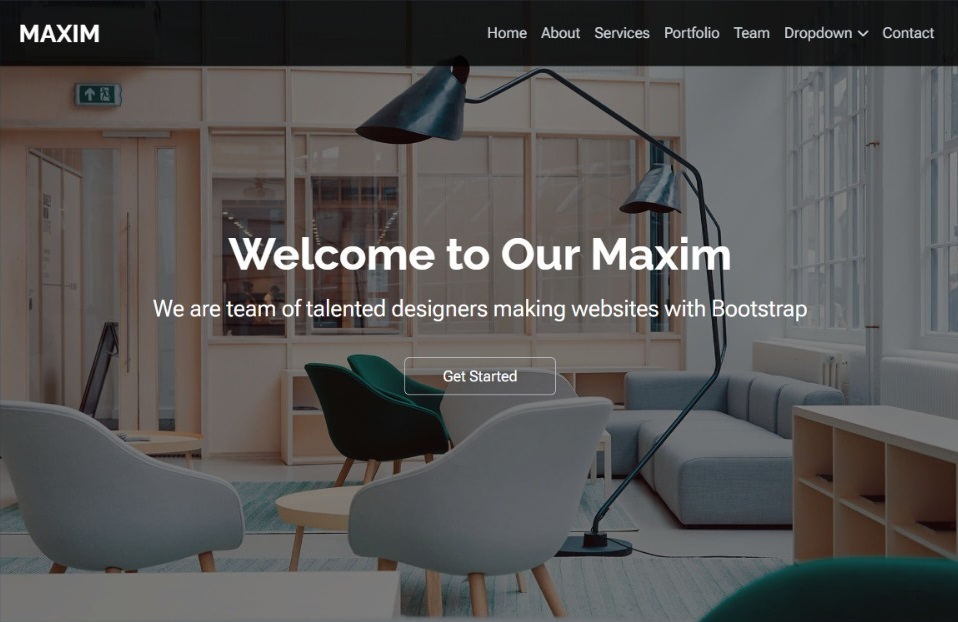
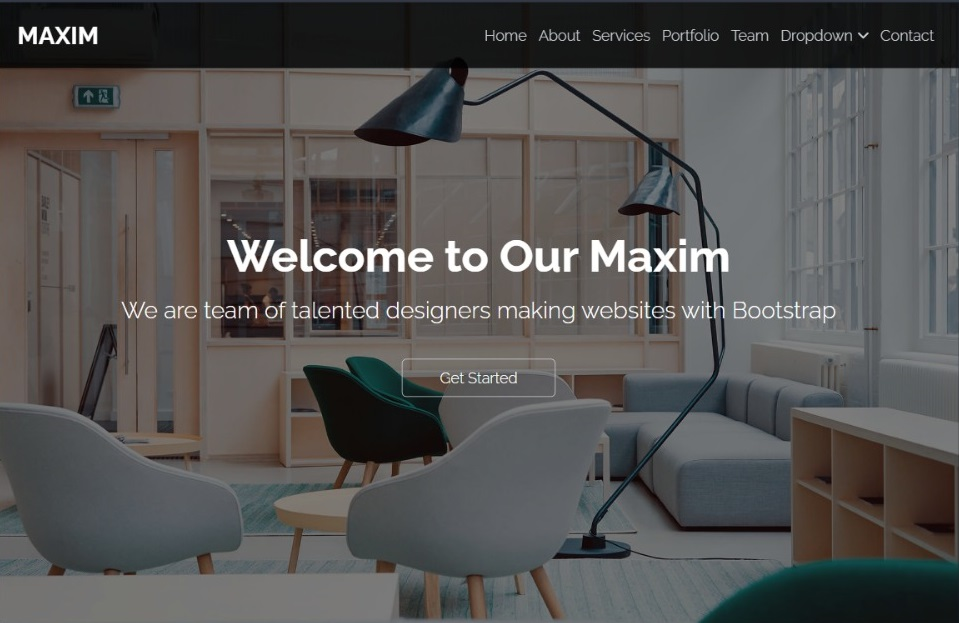
updated

diff --git a/src/pages/Projects.jsx b/src/pages/Projects.jsx
@@ -1,5 +1,7 @@
 import ProjectCard from "../components/CompProject";
 import TitleSect from "../components/Title";
+import maxim from "../assets/images/maxim.jpg";
+import dashboard from "../assets/images/dashboard.jpg";
 
 export default function SectionProjects(){
     return(
@@ -7,8 +9,17 @@ export default function SectionProjects(){
             <TitleSect title={"My Projects"}/>
             <div className="grid grid-cols-3 gap-12 max-xl:gap-8 max-lg:grid-cols-2 max-sm:grid-cols-1">
                 <ProjectCard
+                    image={dashboard}
+                    projectTitle={"Medical Analysis"}
+                    description={"A modern and responsive medical analysis management dashboard built using React, Vite, Tailwind CSS and Shadcn-UI. providing an elegant interface for administrative tasks."}
+                    tools={["React", "React Router", "Tailwind CSS", "Shadcn-UI"]}
+                    live={"https://muhammad-221.github.io/Medical-Analysis/"}
+                    github={"https://github.com/Muhammad-221/Medical-Analysis"}
+                />
+                <ProjectCard
+                    image={maxim}
                     projectTitle={"Maxim"}
-                    description={"This is a description of Project 1."}
+                    description={"I designed and developed a professional website interface for a virtual company, a landing page that aims to showcase services, past work, and the team with a modern and responsive design."}
                     tools={["React", "Sass", "Bootstrap", "React Router"]}
                     live={"https://muhammad-221.github.io/maxim/"}
                     github={"https://github.com/muhammad-221/maxim"}

diff --git a/src/components/CompProject.jsx b/src/components/CompProject.jsx
@@ -2,16 +2,16 @@ import image from "../assets/images/maxim.jpg";
 import { FaEye } from "react-icons/fa";
 import { FaGithub } from "react-icons/fa6";
 
-export default function ProjectCard({projectTitle, description, tools, live, github}) {
+export default function ProjectCard({image, projectTitle, description, tools, live, github}) {
   return (
-    <div className="w-full min-h-100 border border-blue-600/20 overflow-hidden rounded-xl shadow-md hover:shadow-2xl transform hover:-translate-y-2 dark:bg-slate-800 transition duration-300">
+    <div className="w-full min-h-100 border border-blue-600/20 overflow-hidden rounded-2xl shadow-md hover:shadow-lg transform hover:-translate-y-2 dark:bg-slate-800 transition duration-300">
       <div className="w-full">
-        <img src={image} alt="maxim" className="w-full"/>
+        <img src={image} loading="lazy" alt="project" className="w-full"/>
       </div>
       <div className="p-5 max-lg:p-3">
         <div>
-          <h3 className="text-2xl font-semibold text-indigo-500">{projectTitle}</h3>
-          <p className="text-gray-600 dark:text-gray-300">{description}</p>
+          <h3 className="text-xl font-semibold text-indigo-500 mb-2">{projectTitle}</h3>
+          <p className="text-gray-600 text-sm font-normal dark:text-gray-300">{description}</p>
         </div>
         <div className="flex flex-wrap gap-2 mt-3">
           {tools?.map((tool) => (

diff --git a/src/layouts/Links.jsx b/src/layouts/Links.jsx
@@ -29,9 +29,11 @@ export default function NavLinks(){
         {to: "education", label: "Education", icon: <FaGraduationCap className="mr-1"/>},
         {to: "contact", label: "Contact", icon: <IoMdMail className="mr-1"/>}
     ];
+    
     const style = "text-xl font-semibold text-gray-800 hover:text-indigo-600 inline-flex items-center cursor-pointer transition duration-600 max-lg:text-base dark:text-gray-300 dark:hover:text-indigo-500"
+    
     return(
-        <>
+        <header className="w-full h-15 fixed z-50 px-5 flex items-center border-b border-gray-200 bg-white/80 backdrop-blur-lg dark:border-slate-700 dark:bg-slate-900/80">
             <div className="max-md:hidden">
                 <h1 className="text-4xl font-extrabold bg-linear-to-r from-indigo-400 via-purple-400 to-pink-500 bg-clip-text text-transparent max-lg:text-2xl">M & A</h1>
             </div>
@@ -70,7 +72,6 @@ export default function NavLinks(){
                     <IoMdSunny className="text-xl text-white"/> : 
                     <IoMdMoon className="text-xl text-white"/>}
             </Button>
-            
-        </>
+        </header>
     )
 }

diff --git a/src/pages/Landing.jsx b/src/pages/Landing.jsx
@@ -27,9 +27,7 @@ export default function Landing(){
 
     return(
         <>
-            <header className="w-full h-15 fixed z-50 px-5 flex items-center border-b border-gray-200 bg-white/80 backdrop-blur-lg dark:border-slate-700 dark:bg-slate-900/80">
-                <NavLinks/>
-            </header>
+            <NavLinks/>
             <div className="relative dark:bg-slate-900">
                 <ScrollUP scrollUP={isScroll ? "flex" : "hidden transition duration-700 ease-in-out"}/>
                 <SectionAbout/>
@@ -39,7 +37,6 @@ export default function Landing(){
                 <SectionContact/>
                 <SectionFooter/>
             </div>
-            
         </>
     )
 }
